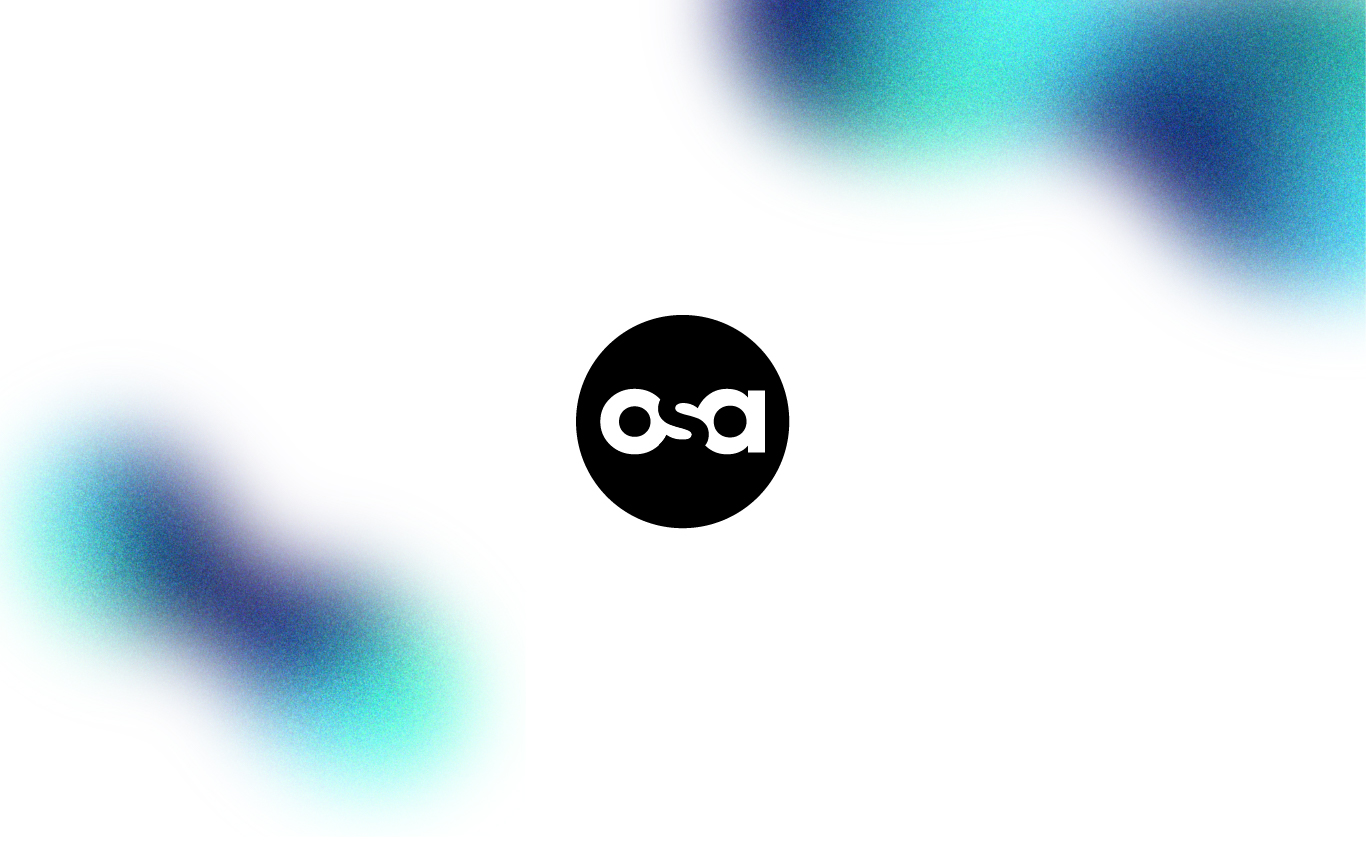
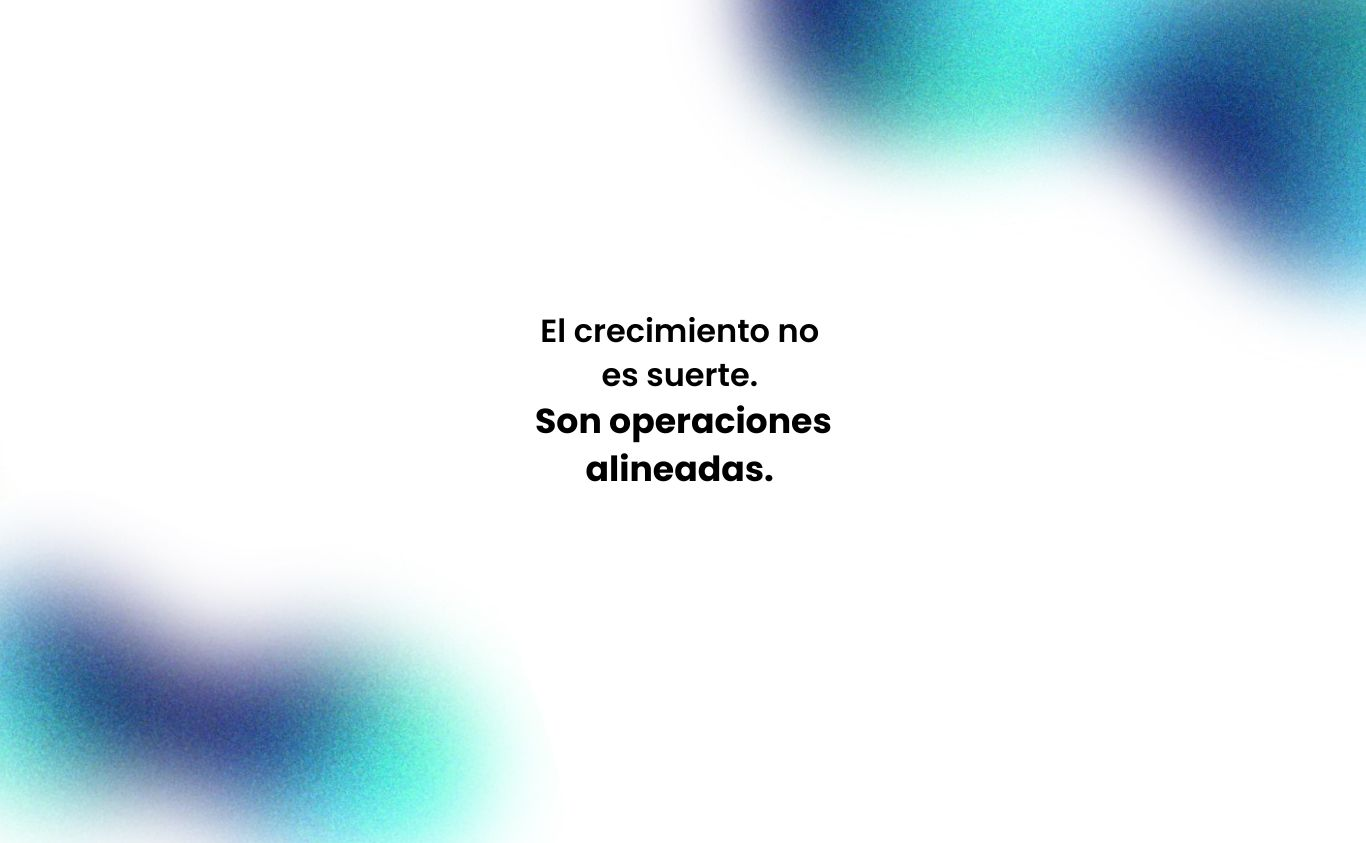
osa v1

Changed region(s): [[0.0, 0.4626, 0.3997, 1.0], [0.4919, 0.0, 1.0, 0.3701], [0.369, 0.3701, 0.6149, 0.6477]]

diff --git a/public_html/index.html b/public_html/index.html
@@ -24,23 +24,23 @@
             </button>
             <div class="collapse navbar-collapse" id="navbarSupportedContent">
                 <ul class="navbar-nav ml-auto">                     
+                    <!-- <li class="nav-item">
+                        <a class="nav-link" href="#service">Revops</a>
+                    </li> -->
                     <li class="nav-item">
-                        <a class="nav-link" href="#service">Our Service</a>
+                        <a class="nav-link" href="#about">Sobre nosotros</a>
                     </li>
                     <li class="nav-item">
-                        <a class="nav-link" href="#about">About Us</a>
+                        <a class="nav-link" href="#portfolio">Servicios</a>
                     </li>
                     <li class="nav-item">
-                        <a class="nav-link" href="#portfolio">Portfolio</a>
+                        <a class="nav-link" href="#blog">Soluciones</a>
                     </li>
                     <li class="nav-item">
-                        <a class="nav-link" href="#blog">Blog</a>
+                        <a class="nav-link" href="#contact">Contacto</a>
                     </li>
                     <li class="nav-item">
-                        <a class="nav-link" href="#contact">Contact</a>
-                    </li>
-                    <li class="nav-item">
-                        <a href="components.html" class="ml-4 nav-link2 btn btn-primary btn-sm roundedheader">RevOps</a>
+                        <a href="components.html" class="ml-4 nav-link2 btn btn-primary btn-sm roundedheader">CRM</a>
                     </li>
                 </ul>
             </div>
@@ -93,15 +93,15 @@
     <!-- Service Section -->
     <section  id="service" class="section pt-0">
         <div class="container">
-            <h6 class="section-title text-center">Our Service</h6>
-            <h6 class="section-subtitle text-center mb-5 pb-3">Voluptates architecto provident deserunt.</h6>
+            <h6 class="section-title text-center">¿Presentas alguno de estos desafios?</h6>
+            <h6 class="section-subtitle text-center mb-5 pb-3">Sí respondes si a alguno de estos, contactanos</h6>
 
             <div class="row">
                 <div class="col-md-4">
                     <div class="card mb-4 mb-md-0">
                         <div class="card-body">
                             <small class="text-primary font-weight-bold">01</small>
-                            <h5 class="card-title mt-3"> Beatae quo <h5>
+                            <h5 class="card-title mt-3"> Crecimiento impredescible<h5>
                             <p class="mb-0">Lorem ipsum dolor sit amet, cquasi cupiditate voluptate debitis saepe dolorem totam dolor repudiandae quo nihil, repellendus nesciunt ab fuga quae, minima reprehenderit sequi fugit.</p>
                         </div>
                     </div>
@@ -110,7 +110,7 @@
                     <div class="card mb-4 mb-md-0">
                         <div class="card-body">
                             <small class="text-primary font-weight-bold">02</small>
-                            <h5 class="card-title mt-3">Delectus Suscipit<h5>
+                            <h5 class="card-title mt-3">Puntos de fuga ciegos<h5>
                             <p class="mb-0">Lorem ipsum dolor sit amet, cquasi cupiditate voluptate debitis saepe dolorem totam dolor repudiandae quo nihil, repellendus nesciunt ab fuga quae, minima reprehenderit sequi fugit.</p>
                         </div>
                     </div>
@@ -119,7 +119,37 @@
                     <div class="card mb-4 mb-md-0">
                         <div class="card-body">
                             <small class="text-primary font-weight-bold">03</small>
-                            <h5 class="card-title mt-3">Itaque harum<h5>
+                            <h5 class="card-title mt-3">Bajo Rendimiento<h5>
+                            <p class="mb-0">Lorem ipsum dolor sit amet, cquasi cupiditate voluptate debitis saepe dolorem totam dolor repudiandae quo nihil, repellendus nesciunt ab fuga quae, minima reprehenderit sequi fugit.</p>
+                        </div>
+                    </div>
+                </div>              
+            </div>
+
+            <div class="row">
+                <div class="col-md-4">
+                    <div class="card mb-4 mb-md-0">
+                        <div class="card-body">
+                            <small class="text-primary font-weight-bold">04</small>
+                            <h5 class="card-title mt-3"> Datos en el caos<h5>
+                            <p class="mb-0">Lorem ipsum dolor sit amet, cquasi cupiditate voluptate debitis saepe dolorem totam dolor repudiandae quo nihil, repellendus nesciunt ab fuga quae, minima reprehenderit sequi fugit.</p>
+                        </div>
+                    </div>
+                </div>
+                <div class="col-md-4">
+                    <div class="card mb-4 mb-md-0">
+                        <div class="card-body">
+                            <small class="text-primary font-weight-bold">05</small>
+                            <h5 class="card-title mt-3">Retención débil<h5>
+                            <p class="mb-0">Lorem ipsum dolor sit amet, cquasi cupiditate voluptate debitis saepe dolorem totam dolor repudiandae quo nihil, repellendus nesciunt ab fuga quae, minima reprehenderit sequi fugit.</p>
+                        </div>
+                    </div>
+                </div>
+                <div class="col-md-4">
+                    <div class="card mb-4 mb-md-0">
+                        <div class="card-body">
+                            <small class="text-primary font-weight-bold">06</small>
+                            <h5 class="card-title mt-3">Capacitación Insuficiente<h5>
                             <p class="mb-0">Lorem ipsum dolor sit amet, cquasi cupiditate voluptate debitis saepe dolorem totam dolor repudiandae quo nihil, repellendus nesciunt ab fuga quae, minima reprehenderit sequi fugit.</p>
                         </div>
                     </div>
@@ -138,9 +168,9 @@
         <div class="container">
             <div class="row justify-content-between">
                 <div class="col-md-6 pr-md-5 mb-4 mb-md-0">
-                    <h6 class="section-title mb-0">About Company</h6>
-                    <h6 class="section-subtitle mb-4">Architecto provident deserunt</h6>
-                    <p >Lorem ipsum dolor sit amet, consectetur adipisicing elit. Voluptate molestiae temporibus et tenetur unde quasi, cum nemo quo, molestias architecto alias voluptatibus corrupti corporis earum. Necessitatibus maxime modi ipsam, quod!</p>
+                    <h6 class="section-title mb-0">Sobre Nosotros</h6>
+                    <h6 class="section-subtitle mb-4">Consultores RevOps</h6>
+                    <p >Somos una consultora especializada en Revenue Operations (RevOps), dedicada a transformar la operación de medianas y pequeñas empresas para que puedan escalar de forma predecible.</p>
                     <img src="assets/imgs/about.jpg" alt="" class="w-100 mt-3 shadow-sm rounded">
                 </div>
                 <div class="col-md-6 pl-md-5">
@@ -152,7 +182,7 @@
                             <img src="assets/imgs/about-2.jpg" alt="" class="w-100 shadow-sm rounded">
                         </div>
                         <div class="col-12 mt-4">
-                            <p>Lorem ipsum dolor sit amet, consectetur adipisicing elit. Nemo iusto quidem laborum atque, sapiente ipsa excepturi fuga cum sed in assumenda eos quasi harum culpa laboriosam nulla, incidunt quae. Voluptatum.</p>
+                            <p>Nuestro valor no radica en la implementación de una herramienta (como Salesforce), sino en la alineación estratégica de sus equipos, procesos y tecnología. Le damos a su negocio la estructura y la visibilidad que necesita para convertir el caos en un flujo de ingresos constante.</p>
                             <p><b>Aliquid fuga sunt velit, temporibus molestias ab. Ipsa nesciunt totam, aliquid dignissimos.</b><br>
                             </p>
                             <p>Lorem ipsum dolor sit amet, consectetur adipisicing elit. Nesciunt ut a dolorem, consectetur, eos suscipit consequatur magnam est dolore obcaecati adipisci expedita, vero, iste ducimus qui numquam animi facilis officia?</p>
@@ -350,7 +380,7 @@
     <!-- Blog Section -->
     <section class="section" id="blog">
         <div class="container">
-            <h6 class="section-title mb-0 text-center">Latest Articles</h6>
+            <h6 class="section-title mb-0 text-center">Nuestros paquetes</h6>
             <h6 class="section-subtitle mb-5 text-center">Architecto provident deserunt eveniet libero</h6>
 
             <div class="row">
@@ -358,7 +388,7 @@
                     <div class="card border-0 mb-4">
                         <img src="assets/imgs/blog-1.jpg" alt="" class="card-img-top w-100 rounded">
                         <div class="card-body">                         
-                            <h6 class="card-title">Pariatur Omnis Harum quae sint.</h6>
+                            <h6 class="card-title">QUICKSTARTS</h6>
                             <p>Fuga quae ratione inventore Perferendis porro.</p>
                             <a href="javascript:void(0)" class="small text-muted">Go To The Article</a>
                         </div>
@@ -368,7 +398,7 @@
                     <div class="card border-0 mb-4">
                         <img src="assets/imgs/blog-2.jpg" alt="" class="card-img-top w-100 rounded">
                         <div class="card-body">                         
-                            <h6 class="card-title"> Harum Quae Porro</h5>
+                            <h6 class="card-title"> MANAGED SERVICES</h5>
                             <p>Fuga quae ratione inventore Perferendis porro.</p>
                             <a href="javascript:void(0)" class="small text-muted">Go To The Article</a>
                         </div>
@@ -447,19 +477,20 @@
         <div class="container">
             <div class="row align-items-center">
                 <div class="col-md-5 my-3">
+                    <h4 class="mb-4">¿Estás listo para alinear tus Operaciones?</h4>
                     <h6 class="mb-0">Phone</h6>
                     <p class="mb-4">+ 123-456-7890</p>
 
                     <h6 class="mb-0">Address</h6>
                     <p class="mb-4">Buenos Aires, Argentina</p>
 
-                    <h6 class="mb-0">Email</h6>
+                    <!-- <h6 class="mb-0">Email</h6>
                     <p class="mb-0">info@osarevops.com</p>
-                    <p></p>
+                    <p></p> -->
                 </div>
                 <div class="col-md-7">
                     <form>
-                        <h4 class="mb-4">Drop Us A Line</h4>
+                        <!-- <h4 class="mb-4">Drop Us A Line</h4> -->
                         <div class="form-row">
                             <div class="form-group col-sm-4">
                                 <input type="text" class="form-control text-white rounded-0 bg-transparent" name="name" placeholder="Name">
@@ -483,6 +514,18 @@
             </div>
             <!-- Page Footer -->
             <footer class="mt-5 py-4 border-top border-secondary">
+                <div class="col-md-5 my-3">
+                    <h6 class="mb-0">Phone</h6>
+                    <p class="mb-4">+ 123-456-7890</p>
+
+                    <h6 class="mb-0">Address</h6>
+                    <p class="mb-4">Buenos Aires, Argentina</p>
+
+                    <h6 class="mb-0">Email</h6>
+                    <p class="mb-0">info@osarevops.com</p>
+                    <p></p>
+                </div>
+                <div class="col-md-7">
                        <p class="mb-0 small">&copy; <script>document.write(new Date().getFullYear())</script>, <a href="https://osaconsulting.io/" target="_blank">OSA Consulting Services</a>  All rights reserved </p>     
             </footer>
             <!-- End of Page Footer -->  
